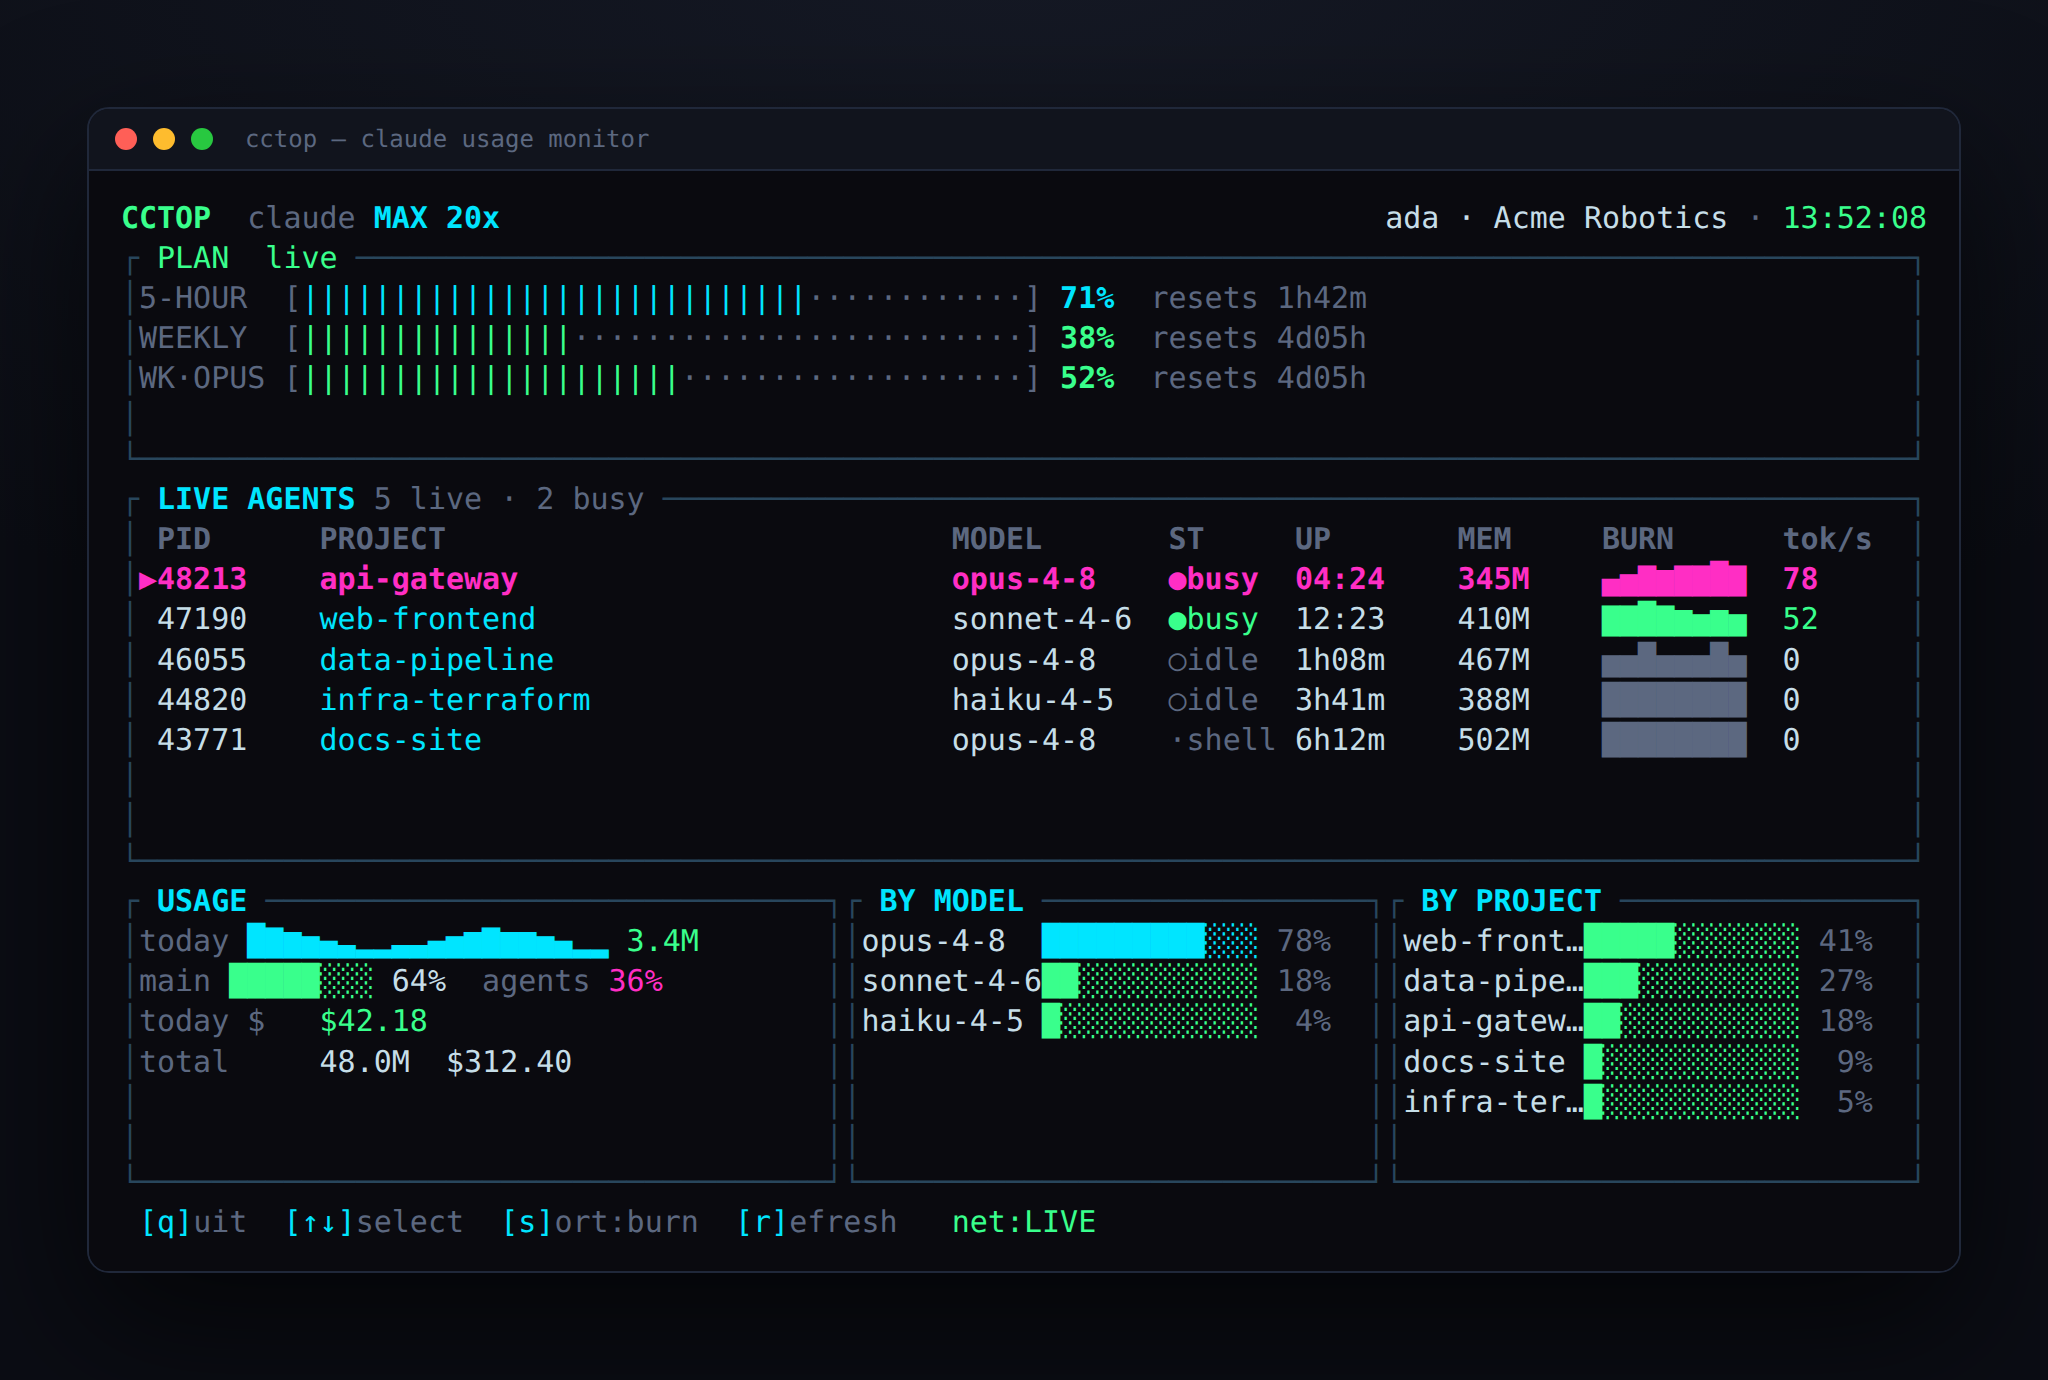
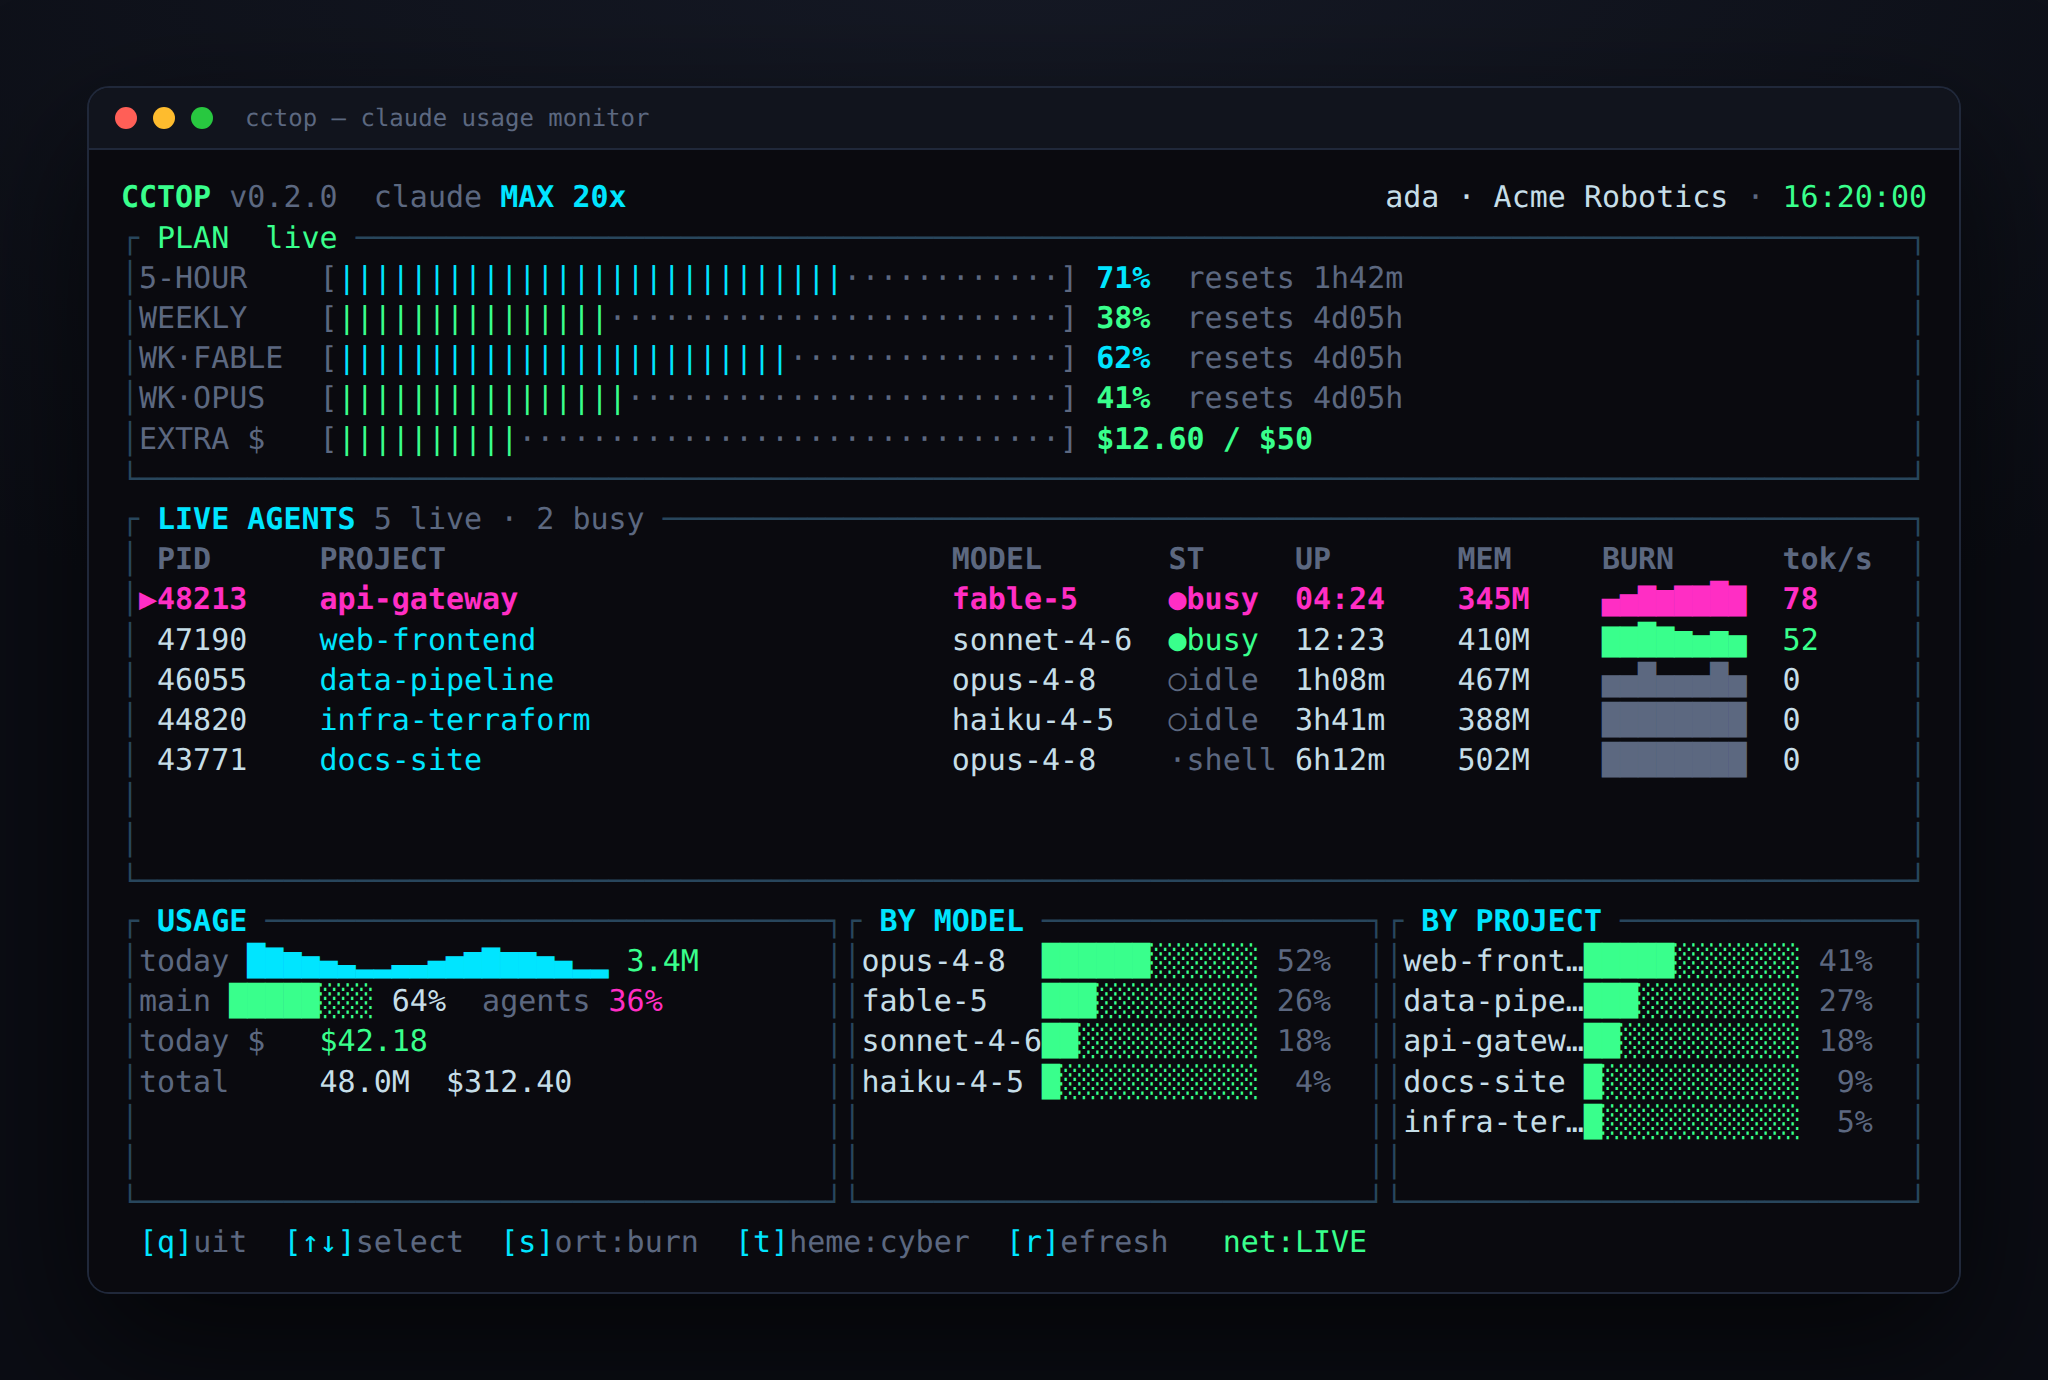
chore: release v0.2.0 — README themes section, refreshed screenshots

Changed region(s): [[0.0312, 0.0623, 0.9375, 0.5609], [0.0625, 0.6232, 0.9375, 0.9348]]

diff --git a/README.md b/README.md
@@ -54,7 +54,7 @@ cctop
 
 ## What it shows
 
-- **Plan** — your live 5-hour and weekly limits (the same gauges as *claude.ai/settings/usage*) with reset timers. Falls back to a local estimate when offline.
+- **Plan** — your live 5-hour and weekly limits (the same gauges as *claude.ai/settings/usage*) with reset timers, including the **per-model weekly caps** (Fable / Opus / Sonnet — whatever your plan enforces) and your **extra-usage credits** when overage is enabled. Falls back to a local estimate when offline.
 - **Live agents** — every running Claude Code session as a process row: project, model, busy/idle, uptime, memory, and a live token-burn sparkline.
 - **Usage** — today's tokens and cost, main-vs-subagent split, and lifetime breakdowns by model and project.
 
@@ -64,7 +64,23 @@ Works on Linux, macOS and Windows.
 
 ## Keys
 
-`q` quit · `↑ ↓` select · `s` cycle sort · `r` refresh
+`q` quit · `↑ ↓` select · `s` cycle sort · `t` cycle theme · `r` refresh
+
+## Themes
+
+![themes](assets/themes.png)
+
+Press `t` to cycle themes live — the pick is remembered across runs (`~/.config/cctop/theme`) — or start with `--theme NAME`. Every theme restyles the whole UI: palette, border glyphs, gauge & bar characters.
+
+| theme | vibe |
+|-------|------|
+| `cyber` | neon green/cyan on black — the classic (default) |
+| `claude` | warm Anthropic terracotta, rounded corners |
+| `matrix` | green phosphor CRT |
+| `dracula` | the classic purple/pink dark palette |
+| `nord` | calm arctic frost, thin-line gauges |
+| `synthwave` | hot pink & cyan, double-line frames |
+| `mono` | grayscale ASCII brutalism |
 
 ## Flags
 
@@ -73,6 +89,7 @@ Works on Linux, macOS and Windows.
 | `--demo` | run with synthetic data — no account needed |
 | `--no-net` | local data only, never touch the network |
 | `--once` | print a one-shot text snapshot and exit |
+| `--theme NAME` | pick a theme (see [Themes](#themes)) |
 | `--config-dir DIR` | also read another Claude config dir (repeatable) — see [Multiple config dirs](#multiple-config-dirs) |
 
 ## Multiple config dirs
